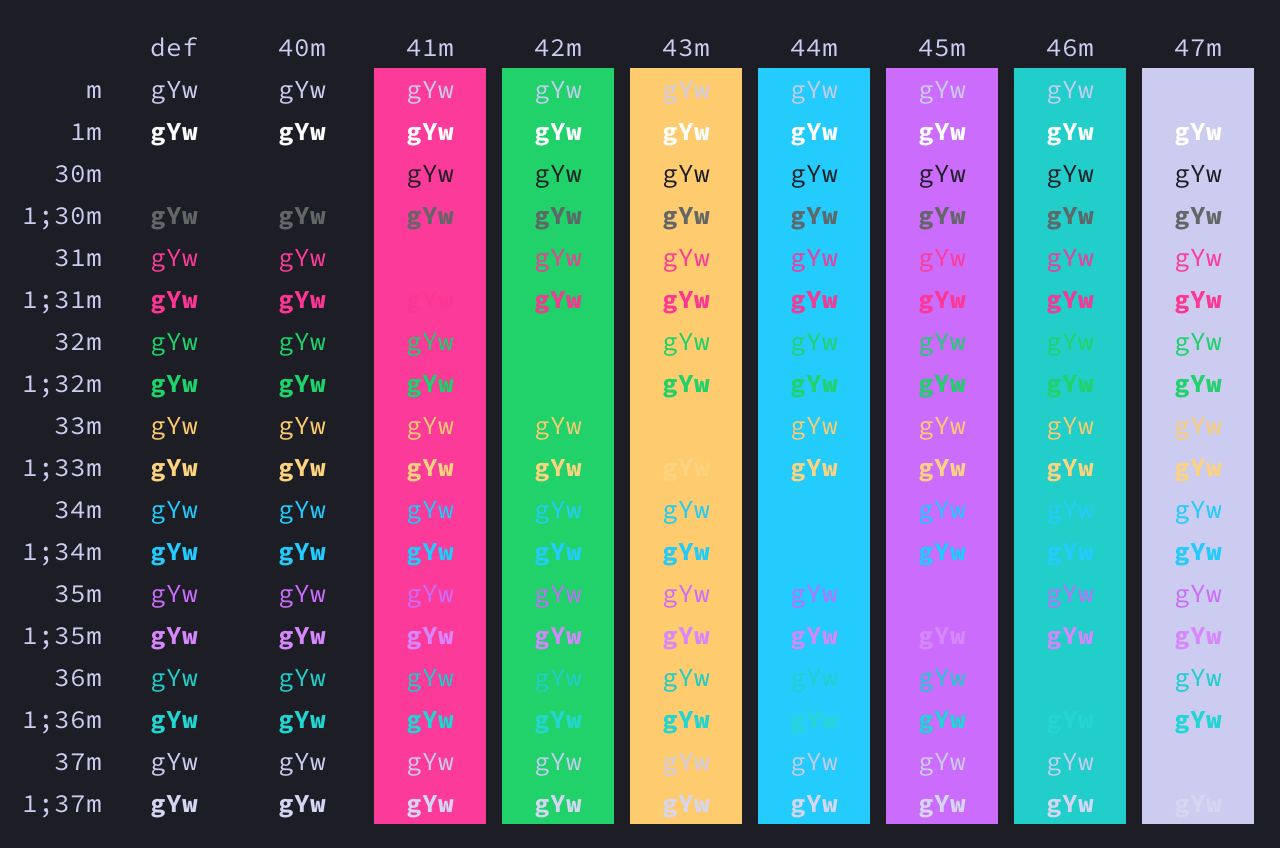
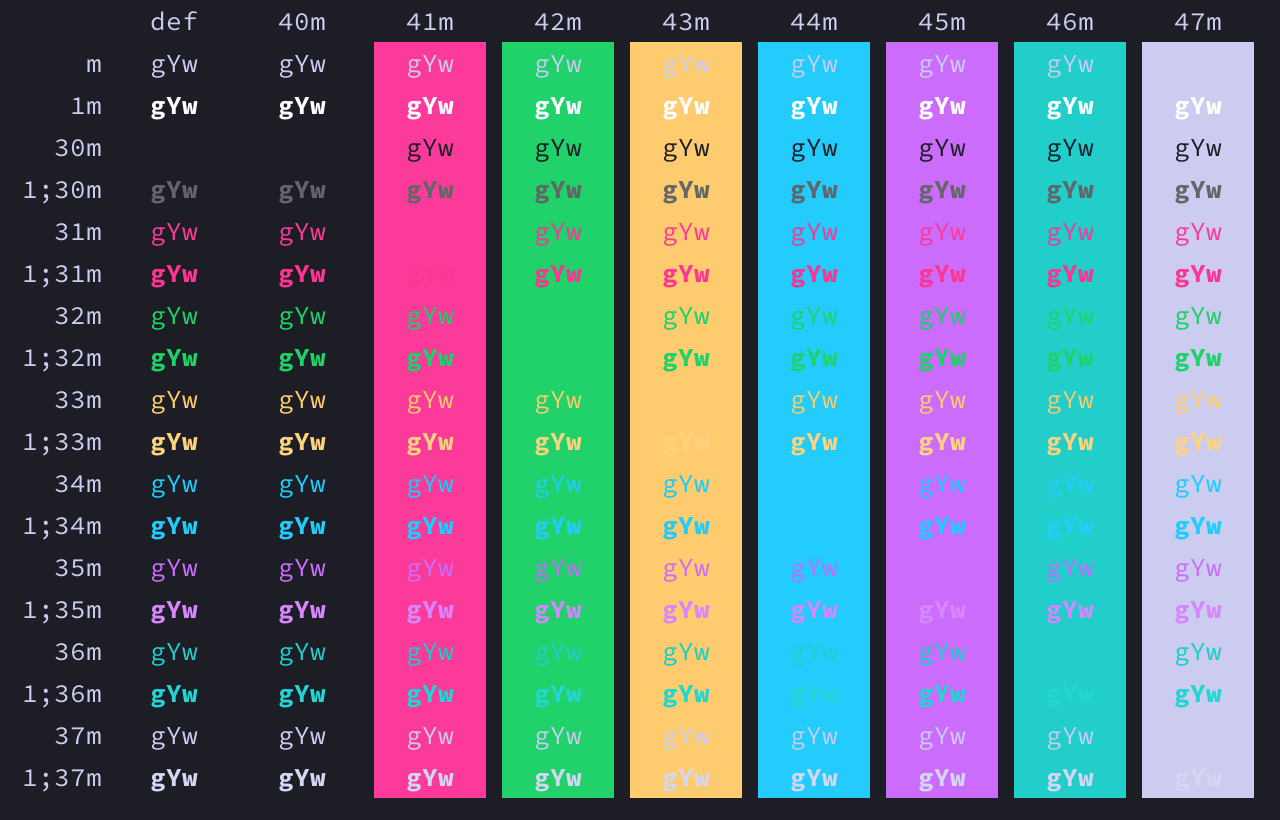
update screenshots

diff --git a/README.md b/README.md
@@ -18,4 +18,4 @@ The font I am using is [Source Code Pro](https://fonts.google.com/specimen/Sourc
 
 ### Tinacious Design (Light)
 
-<img src="screenshots/tinacious-design-light-iterm-colors.png" alt="Screenshot of Tinacious Design (Light)" width="639" />
+<img src="screenshots/tinacious-design-light-iterm-colors.png" alt="Screenshot of Tinacious Design (Light)" width="640" />
